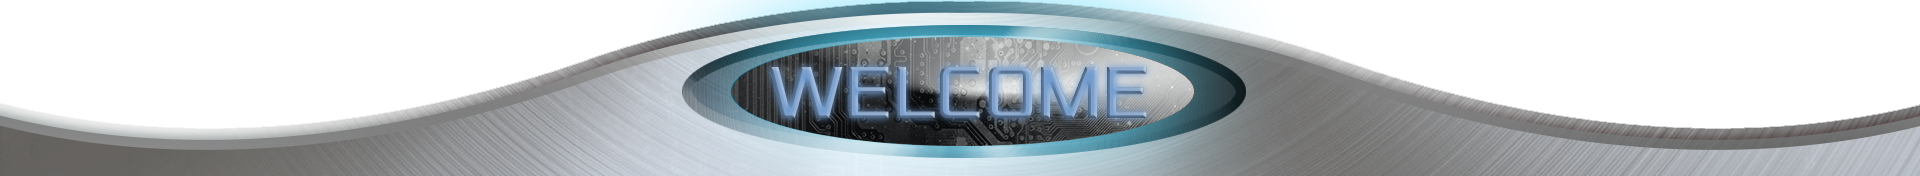
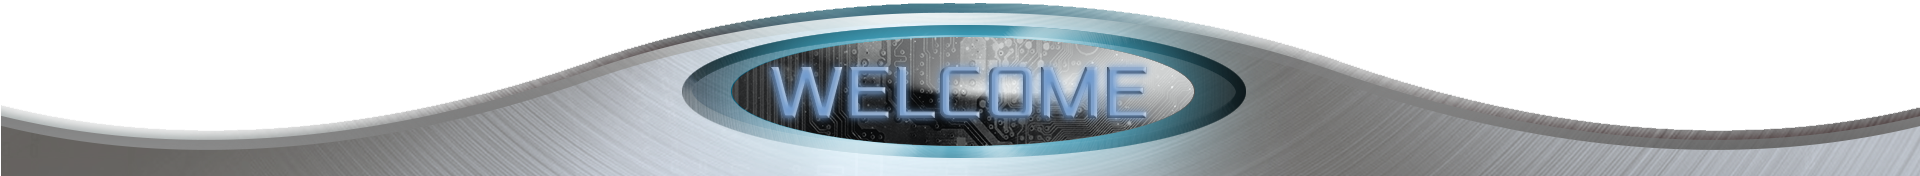
modified lauch page...changed launch page title graphic...reduced contact link images....commented out gallery and video elements....c out portal element.

diff --git a/clean_siteIndex.html b/clean_siteIndex.html
@@ -65,7 +65,7 @@
             <source src="videos/0001-0200.mp4" type="video/mp4" />
             <p class="vjs-no-js">To view this video please enable JavaScript, and consider upgrading to a web browser that supports HTML5 video</p>
           </video> -->
-          <div class="gallery">
+<!--           <div class="gallery">
             <h1 class="text-center blue-grad">Gallery</h1>
             <div class="gallery_images">
               <figure class="columns four">
@@ -105,7 +105,7 @@
                 <figcaption>HCL Renders - <strong>HubCityLive! - Image 6</strong></figcaption>
               </figure>
             </div>
-          </div>
+          </div> -->
         </div>
       </div>
       <!-- Business Plan -->
@@ -113,12 +113,12 @@
       <div class="row no-pad busiess-row" style="min-height:700px; height: auto; background-size:cover;">
         <canvas style="position: absolute"></canvas>
         <div class="col-md-6  col-sm-12 col-xs-12 no-pad">
-          <div class="videoContainer">
+<!--           <div class="videoContainer">
             <video id="virtual" preload="auto" loop="true" width="100%" height="800px" poster="../logo/Renderings/1_00000.jpg">
               <source src="videos/ComingSoon2.mp4" type="video/mp4" />
               <p class="vjs-no-js">To view this video please enable JavaScript, and consider upgrading to a web browser that supports HTML5 video</p>
             </video>
-          </div>
+          </div> -->
         </div>
         <div class="mt">
           <div class="col-md-6 col-xs-12 col-sm-12 no-pad" style="padding-top:200px">
@@ -172,12 +172,12 @@
           </div>
         </div>
         <div class="col-md-6  col-sm-12 col-xs-12 no-pad">
-          <div class="videoContainer">
+<!--           <div class="videoContainer">
             <video id="redQuartzVideo" preload="auto" loop="true" width="100%" height="800px" poster="../logo/Renderings/1_00000.jpg">
               <source src="videos/ComingSoon2.mp4" type="video/mp4" />
               <p class="vjs-no-js">To view this video please enable JavaScript, and consider upgrading to a web browser that supports HTML5 video</p>
             </video>
-          </div>
+          </div> -->
         </div>
       </div>
       <!-- Model Plan -->
@@ -185,12 +185,12 @@
       <div class="row no-pad model-row" style="min-height:700px; height: auto; background-size:cover;">
         <canvas style="position: absolute"></canvas>
         <div class="col-md-6  col-sm-12 col-xs-12 no-pad">
-          <div class="videoContainer">
+  <!--         <div class="videoContainer">
             <video id="virtual" preload="auto" loop="true" width="100%" height="800px" poster="../logo/Renderings/1_00000.jpg">
               <source src="videos/ComingSoon2.mp4" type="video/mp4" />
               <p class="vjs-no-js">To view this video please enable JavaScript, and consider upgrading to a web browser that supports HTML5 video</p>
             </video>
-          </div>
+          </div> -->
         </div>
         <div class="mt">
           <div class="col-md-6  col-sm-12 col-xs-12 no-pad" style="padding-top:200px">

diff --git a/clean_siteLaunch.html b/clean_siteLaunch.html
@@ -30,7 +30,7 @@
       <div class="row no-pad mai-bg" id="titleElement">
           <h1 id="runner" style="display: none;"></h1>
           <h1 id="runner2" style="display: none;"></h1>
-          <div id="portal">
+<!--           <div id="portal">
            <div class="sceneFrame">
              <img src="images/L0B3.jpg" id="bgElement" alt="bg_image">
            </div>
@@ -40,11 +40,11 @@
            <div class="sceneFrame">
              <img src="images/L2.png" id="planetElement" alt="planet_image">
            </div>
-<!--             <div class="sceneFrame">
+            <div class="sceneFrame">
              <img src="images/L3C.png" id="planetElement2" alt="planet_image2">
-           </div> -->
-          </div>
-          <img id="launchPageTitle" src="images/hubcity_page_title_graphicDRS2.png" class="img-responsive" alt="">
+           </div>
+          </div> -->
+          <img id="launchPageTitle" src="images/hubcity_page_title_graphicDRS3.png" class="img-responsive" alt="">
 <!--           <h1 id="runnerPrime" style="color: white;"></h1> -->
         </div>
       </div>

diff --git a/css/style.css b/css/style.css
@@ -592,6 +592,8 @@ but you could also use a gif to better handle ie8*/
 }
 
 #launchPageTitle{
+  position: relative;
+  top: -80px;
   opacity: 0;
   margin: 0px;
   transition: all 10s ease-in-out;
@@ -699,7 +701,7 @@ nav.page-navigation{
   padding-top: 30%;
   padding-bottom: 0px;
   list-style: none;
-  background: linear-gradient(to bottom right, rgba(0, 189, 253,.2), rgba(0,0,0,0)); /*Standard*/
+  /*background: linear-gradient(to bottom right, rgba(0, 189, 253,.2), rgba(0,0,0,0)); /*Standard*/*/
   width: 75%;
   height: 100%;
   /*border-top-right-radius: 40px;*/
@@ -1048,12 +1050,16 @@ footer li{
   margin: 0 auto;
   padding: 0px 0px 0px 0px;
   text-align: center;
+  width: 100%;
+  height: auto;
 }
 
 .contactLink{
   margin: 0px 0px 0px 0px;
   padding: 5px 5px 5px 5px;
   text-align: center;
+  width: 3%;
+  height: auto;
 }
 
 .contactLink:hover{
@@ -1062,5 +1068,7 @@ footer li{
 
 .contactLinkImage{
   margin:0px 0px 0px 0px;
+  width: 3%;
+  height: auto;
 
 }

diff --git a/js/main.js b/js/main.js
@@ -46,7 +46,7 @@ document.body.appendChild(stats.domElement);
 				},
 				width: window.innerWidth,
 				height: window.innerHeight,
-				velocity: 0.1,
+				velocity: 0.7,
 				length: 100,
 				distance: 120,
 				radius: 150,
@@ -201,11 +201,11 @@ document.body.appendChild(stats.domElement);
 // Init plugin
 $('canvas').constellation({
 	star: {
-		width: 2,
-		color:'rgba(110, 154, 207,1)'
+		width: 3,
+		color:'rgba(255, 255, 255,1)'
 	},
 	line: {
-		color: 'rgba(110, 154, 207,1)'
+		color: 'rgba(255, 255, 255,1)'
 	},
-	radius: 250
+	radius: 270
 });
